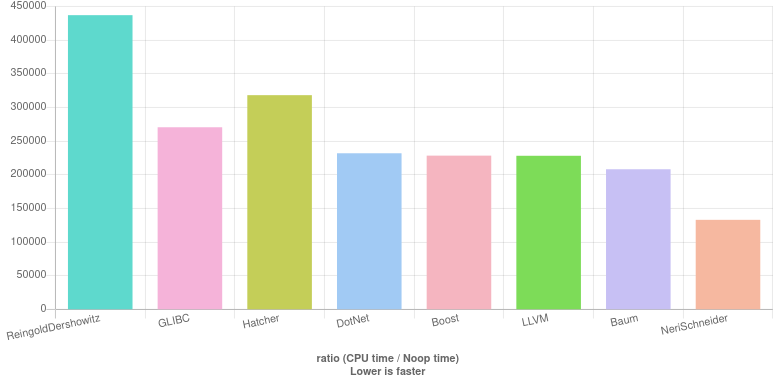
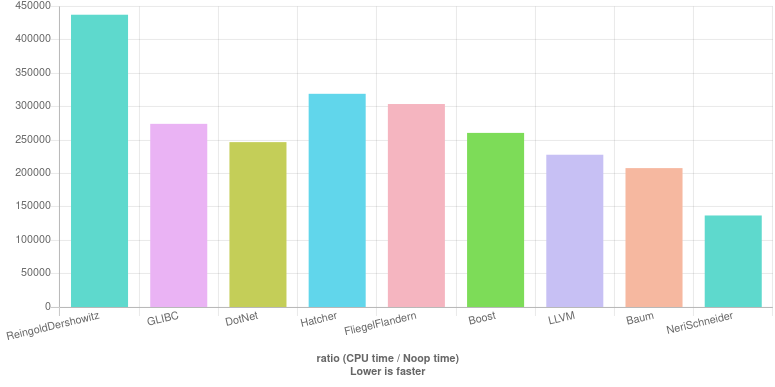
Added Fliegel and Flandern algorithms.

diff --git a/benchmarks/to_rata_die.cpp b/benchmarks/to_rata_die.cpp
@@ -24,18 +24,18 @@
 #include <random>
 #include <type_traits>
 
-//------------------------------------------------------------------------------
+//----------------------------
 // Config
-//------------------------------------------------------------------------------
+//----------------------------
 
 using year_t     = std::int16_t; // as in std::chrono::year
 using month_t    = std::uint8_t; // as in std::chrono::month
 using day_t      = std::uint8_t; // as in std::chrono::day
 using rata_die_t = std::int32_t; // as in std::chrono::days
 
-//------------------------------------------------------------------------------
+//----------------------------
 // Implementations
-//------------------------------------------------------------------------------
+//----------------------------
 
 struct date_t {
   year_t  year;
@@ -184,6 +184,21 @@ namespace dotnet {
   }
 
 } // namespace dotnet
+
+namespace fliegel_flandern {
+  
+  rata_die_t static constexpr
+  to_rata_die(const date_t& u) noexcept {
+    auto const I  = rata_die_t(u.year);
+    auto const J  = rata_die_t(u.month);
+    auto const K  = rata_die_t(u.day);
+    auto const JD = K - 32075 + 1461 * (I + 4800 + (J - 14) / 12) / 4
+      + 367 * (J - 2 - (J - 14) / 12 * 12) / 12 - 3
+      * ((I + 4900 + (J - 14) / 12) / 100) / 4;
+    return JD - 2440588; // adjusted to unix epoch
+  }
+
+} // namespace fliegel_flandern
 
 namespace glibc {
 
@@ -360,9 +375,9 @@ namespace reingold_dershowitz {
 
 } // namespace reingold_dershowitz
 
-//------------------------------------------------------------------------------
+//----------------------------
 // Benchmark data
-//------------------------------------------------------------------------------
+//----------------------------
 
 date_t constexpr
 to_date(rata_die_t n3) noexcept {
@@ -409,9 +424,9 @@ auto const dates = [](){
   return dates;
 }();
 
-//------------------------------------------------------------------------------
+//----------------------------
 // Benchmark
-//------------------------------------------------------------------------------
+//----------------------------
 
 void ReingoldDershowitz(benchmark::State& state) {
   for (auto _ : state) {
@@ -433,6 +448,16 @@ void GLIBC(benchmark::State& state) {
 }
 BENCHMARK(GLIBC);
 
+void DotNet(benchmark::State& state) {
+  for (auto _ : state) {
+    for (auto const& u : dates) {
+      auto n = dotnet::to_rata_die(u);
+      benchmark::DoNotOptimize(n);
+    }
+  }
+}
+BENCHMARK(DotNet);
+
 void Hatcher(benchmark::State& state) {
   for (auto _ : state) {
     for (auto const& u : dates) {
@@ -443,15 +468,15 @@ void Hatcher(benchmark::State& state) {
 }
 BENCHMARK(Hatcher);
 
-void DotNet(benchmark::State& state) {
+void FliegelFlandern(benchmark::State& state) {
   for (auto _ : state) {
     for (auto const& u : dates) {
-      auto n = dotnet::to_rata_die(u);
+      auto n = fliegel_flandern::to_rata_die(u);
       benchmark::DoNotOptimize(n);
     }
   }
 }
-BENCHMARK(DotNet);
+BENCHMARK(FliegelFlandern);
 
 void Boost(benchmark::State& state) {
   for (auto _ : state) {

diff --git a/benchmarks/to_date.cpp b/benchmarks/to_date.cpp
@@ -24,18 +24,18 @@
 #include <random>
 #include <type_traits>
 
-//------------------------------------------------------------------------------
+//----------------------------
 // Config
-//------------------------------------------------------------------------------
+//----------------------------
 
 using year_t     = std::int16_t; // as in std::chrono::year
 using month_t    = std::uint8_t; // as in std::chrono::month
 using day_t      = std::uint8_t; // as in std::chrono::day
 using rata_die_t = std::int32_t; // as in std::chrono::days
 
-//------------------------------------------------------------------------------
+//----------------------------
 // Implementations
-//------------------------------------------------------------------------------
+//----------------------------
 
 struct date_t {
   year_t  year;
@@ -220,6 +220,26 @@ namespace dotnet {
   }
 
 } // namespace dotnet
+
+namespace fliegel_flandern {
+
+  date_t static constexpr
+  to_date(rata_die_t n) noexcept {
+    auto const JD = n + 2440588; // adjusted to unix epoch
+    auto       L  = JD + 68569;
+    auto const N  = 4 * L / 146097;
+               L  = L - (146097 * N + 3) / 4;
+    auto       I  = 4000 * (L + 1) / 1461001;
+               L  = L - 1461 * I / 4 + 31;
+    auto       J  = 80 * L / 2447;
+    auto const K  = L - 2447 * J / 80;
+               L  = J / 11;
+               J  = J + 2 - 12 * L;
+               I  = 100 * (N - 49) + I + L;
+    return { year_t(I), month_t(J), day_t(K) };
+  }
+  
+} // namespace fliegel_flandern
 
 namespace glibc {
 
@@ -426,9 +446,9 @@ namespace reingold_dershowitz {
 
 } // namespace reingold_dershowitz
 
-//------------------------------------------------------------------------------
+//----------------------------
 // Benchmark data
-//------------------------------------------------------------------------------
+//----------------------------
 
 auto const rata_dies = [](){
   std::uniform_int_distribution<rata_die_t> uniform_dist(-146097, 146096);
@@ -439,9 +459,9 @@ auto const rata_dies = [](){
   return rata_dies;
 }();
 
-//------------------------------------------------------------------------------
+//----------------------------
 // Benchmark
-//------------------------------------------------------------------------------
+//----------------------------
 
 void ReingoldDershowitz(benchmark::State& state) {
   for (auto _ : state) {
@@ -482,6 +502,16 @@ void Hatcher(benchmark::State& state) {
   }
 }
 BENCHMARK(Hatcher);
+
+void FliegelFlandern(benchmark::State& state) {
+  for (auto _ : state) {
+    for (auto const n : rata_dies) {
+      auto u = fliegel_flandern::to_date(n);
+      benchmark::DoNotOptimize(u);
+    }
+  }
+}
+BENCHMARK(FliegelFlandern);
 
 void Boost(benchmark::State& state) {
   for (auto _ : state) {

diff --git a/tests.cpp b/tests.cpp
@@ -201,6 +201,53 @@ struct dotnet : other_base {
 
 }; // struct dotnet
 
+struct fliegel_flandern : other_base {
+  
+  date_t     static constexpr epoch              = unix_epoch<year_t>;
+
+  date_t     static constexpr date_min           = date_t{-4800, 3, 1};
+  date_t     static constexpr date_max           = max<date_t>;
+  rata_die_t static constexpr rata_die_min       = -2509157;
+  rata_die_t static constexpr rata_die_max       = 11248737;
+
+  date_t     static constexpr round_date_min     = date_t{-4800, 3, 1};
+  date_t     static constexpr round_date_max     = max<date_t>;
+  rata_die_t static constexpr round_rata_die_min = -2472632;
+  rata_die_t static constexpr round_rata_die_max = 11248737;
+
+  // Henry F. Fliegel and Thomas C. Van Flandern, A Machine Algorithm for Processing Calendar Dates
+  // Communications of the ACM, Vol. 11, No. 10 (1968), p657.
+
+  rata_die_t static constexpr
+  to_rata_die(const date_t& u) noexcept {
+    auto const I  = rata_die_t(u.year);
+    auto const J  = rata_die_t(u.month);
+    auto const K  = rata_die_t(u.day);
+    auto const JD = K - 32075 + 1461 * (I + 4800 + (J - 14) / 12) / 4
+      + 367 * (J - 2 - (J - 14) / 12 * 12) / 12 - 3
+      * ((I + 4900 + (J - 14) / 12) / 100) / 4;
+    return JD - 2440588; // adjusted to unix epoch
+  }
+
+  date_t static constexpr
+  to_date(rata_die_t n) noexcept {
+    auto const JD = n + 2440588; // adjusted to unix epoch
+    auto       L  = JD + 68569;
+    auto const N  = 4 * L / 146097;
+               L  = L - (146097 * N + 3) / 4;
+    auto       I  = 4000 * (L + 1) / 1461001;
+               L  = L - 1461 * I / 4 + 31;
+    auto       J  = 80 * L / 2447;
+    auto const K  = L - 2447 * J / 80;
+               L  = J / 11;
+               J  = J + 2 - 12 * L;
+               I  = 100 * (N - 49) + I + L;
+    return { year_t(I), month_t(J), day_t(K) };
+  }
+  
+}; // struct fliegel_flandern
+
+
 struct glibc : other_base {
 
   // Code of this stuct is subject to the following terms.
@@ -699,6 +746,7 @@ using implementations = ::testing::Types<
 
   baum,
   dotnet,
+  fliegel_flandern,
   glibc,
   hatcher,
   reingold,

diff --git a/benchmarks/last_day_of_month.cpp b/benchmarks/last_day_of_month.cpp
@@ -1,6 +1,6 @@
 /*******************************************************************************
  *
- * las_day_of_month benchmarks
+ * last_day_of_month benchmarks
  *
  * Copyright (C) 2020 Cassio Neri and Lorenz Schneider
  *
@@ -23,17 +23,17 @@
 #include <cstdint>
 #include <random>
 
-//------------------------------------------------------------------------------
+//----------------------------
 // Config
-//------------------------------------------------------------------------------
+//----------------------------
 
 using year_t  = std::int16_t; // as in std::chrono::year
 using month_t = std::uint8_t; // as in std::chrono::month
 using day_t   = std::uint8_t; // as in std::chrono::day
 
-//------------------------------------------------------------------------------
+//----------------------------
 // Implementations
-//------------------------------------------------------------------------------
+//----------------------------
 
 namespace neri_schneider {
 
@@ -142,9 +142,9 @@ namespace llvm {
 
 } // namespace llvm
 
-//-------------------------------------------------------------------
+//----------------------------
 // Benchmark data
-//-------------------------------------------------------------------
+//----------------------------
 
 auto const years = [](){
   std::uniform_int_distribution<year_t> uniform_dist(-400, 399);
@@ -164,9 +164,9 @@ auto const months = [](){
   return months;
 }();
 
-//------------------------------------------------------------------------------
+//----------------------------
 // Benchmark
-//------------------------------------------------------------------------------
+//----------------------------
 
 void Boost(benchmark::State& state) {
   for (auto _ : state) {

diff --git a/benchmarks/is_leap_year.cpp b/benchmarks/is_leap_year.cpp
@@ -23,15 +23,15 @@
 #include <cstdint>
 #include <random>
 
-//------------------------------------------------------------------------------
+//----------------------------
 // Config
-//------------------------------------------------------------------------------
+//----------------------------
 
 using year_t = std::int16_t; // as in std::chrono::year
 
-//------------------------------------------------------------------------------
+//----------------------------
 // Implementations
-//------------------------------------------------------------------------------
+//----------------------------
 
 namespace neri_schneider {
 
@@ -67,9 +67,9 @@ namespace ubiquitous {
 
 } // namespace typical
 
-//------------------------------------------------------------------------------
+//----------------------------
 // Benchmark data
-//------------------------------------------------------------------------------
+//----------------------------
 
 auto const years = [](){
   std::uniform_int_distribution<year_t> uniform_dist(-400, 399);
@@ -80,9 +80,9 @@ auto const years = [](){
   return years;
 }();
 
-//------------------------------------------------------------------------------
+//----------------------------
 // Benchmark
-//------------------------------------------------------------------------------
+//----------------------------
 
 void Ubiquitous(benchmark::State& state) {
   for (auto _ : state) {

diff --git a/README.md b/README.md
@@ -18,20 +18,22 @@ implementations perform considerably faster than others.
 
 ![Benchmarks](https://github.com/cassioneri/calendar/blob/master/benchmarks/benchmarks.png)
 
-[is_leap_year](https://quick-bench.com/q/LkglLY6ZjuM9DWup8zg7Ux7iDms): NeriSchneider_mcomp is 3.1x 
-faster than Ubiquitous (the implementation used virtually everywhere.) NeriSchneider_mod is 1.8x 
+[is_leap_year](https://quick-bench.com/q/59NUOm9iL-A5rCCV-X4b7_z6IMw): NeriSchneider_mcomp is 3.2x
+faster than Ubiquitous (the implementation used virtually everywhere.) NeriSchneider_mod is 1.9x
 faster than Ubiquitous.
 
-[last_day_of_month](https://quick-bench.com/q/JmktYBOCtTRcCTmEe4rih--zHMU): NeriSchneider is 3.2x 
-faster than Boost and 1.2x faster than LLVM.
+[last_day_of_month](https://quick-bench.com/q/f-aLzIcjpy90C9_CgJ2kBrbsXiQ): NeriSchneider is 3.1x 
+faster than Boost and 1.1x faster than LLVM.
 
-[to_rata_die](https://quick-bench.com/q/iNYWoZ5tpAG7ABKwC12HYt73gj4): NeriSchneider is 3.3x faster 
-than ReingoldDershowitz, 2x faster than glibc, 2.4x faster than Hatcher, 1.7x faster than .NET, 
-1.7x faster than Boost, 1.7x faster than LLVM and 1.6x faster than Baum.
+[to_rata_die](https://quick-bench.com/q/AWsTXPff7zsrbn7LhWTheIhJu4o): NeriSchneider is 3.2x faster 
+than ReingoldDershowitz, 2x faster than glibc, 1.8x faster than .NET, 2.3x faster than Hatcher, 2.2x
+faster than FliegelFlandern, 1.9x faster than Boost, 1.7x faster than LLVM and 1.5x faster than 
+Baum.
 
-[to_date](https://quick-bench.com/q/1CtsPG2PezOfmHplhm_DgTSo5-g): NeriSchneider is 6.7x faster than 
-ReingoldDershowitz, 6.2x faster than glibc, 3.4x faster than .NET, 2.8x faster than Hatcher, 2.6x 
-faster than Boost, 2.2x faster than LLVM and 1.5x faster than Baum.
+[to_date](https://quick-bench.com/q/2jUpC6Rnn0Ux54hjSxJ9_1tGHoE): NeriSchneider is 6.8x faster than 
+ReingoldDershowitz, 6.2x faster than glibc, 3.4x faster than .NET, 2.9x faster than Hatcher, 2.8x
+faster than FliegelFlandern, 2.6x faster than Boost, 2.2x faster than LLVM and 1.5x faster than 
+Baum.
 
 **Disclaimer**: Benchmarks above compare implementations as of 2020-May-02. They might have been
 slightly edited to get: (a) consistent function signatures; (b) storage types (for years, months,
